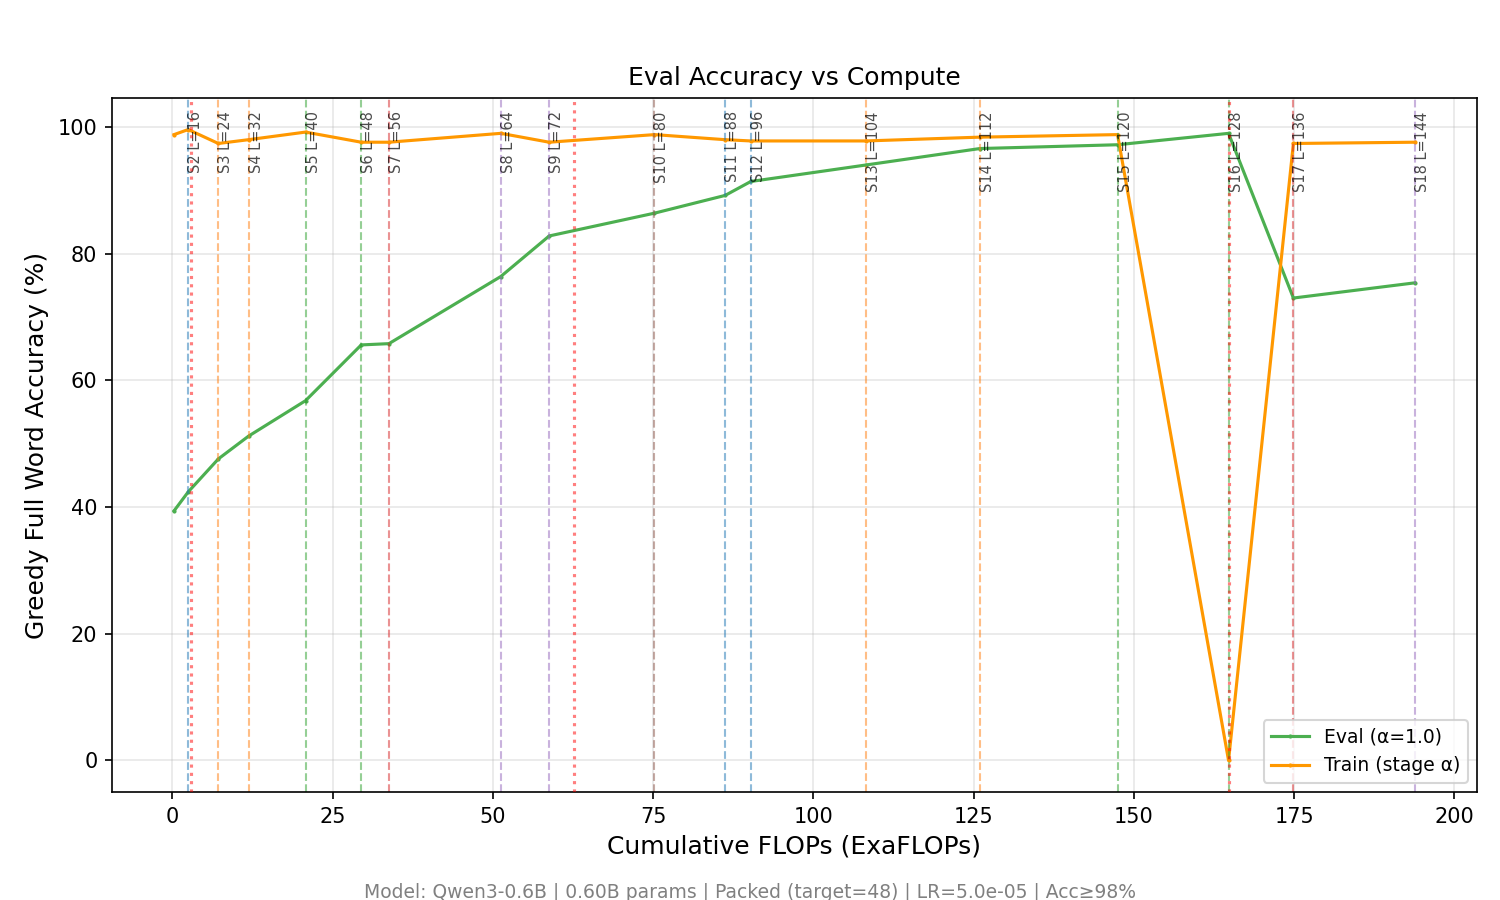
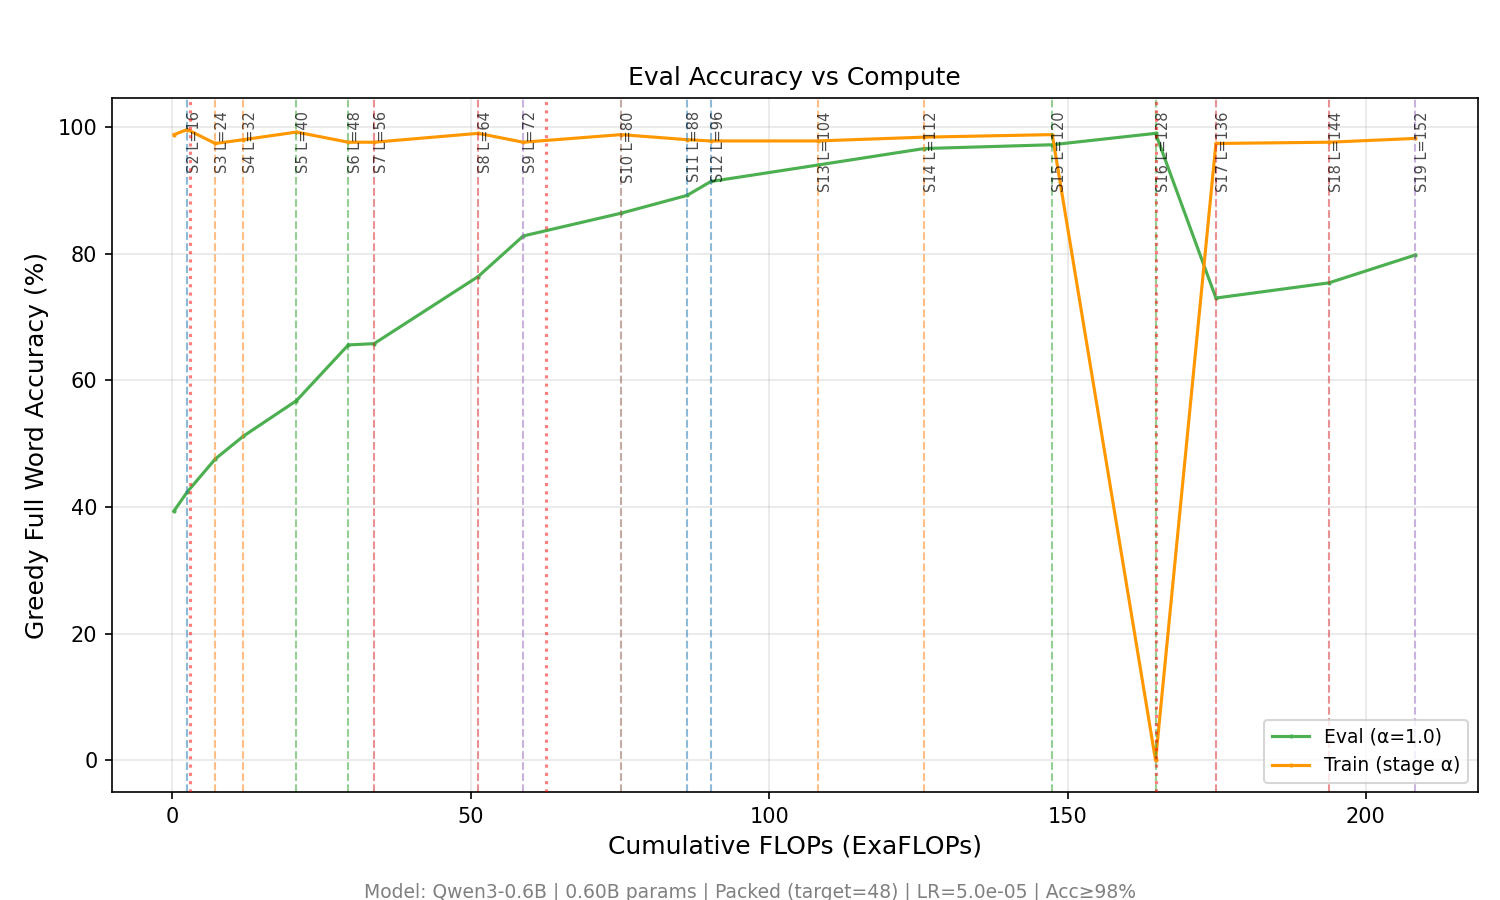
Update Exp1 PROGRESS.md and synced artifacts (2026-10-19 11:31 UTC)

diff --git a/PROGRESS.md b/PROGRESS.md
@@ -3,7 +3,7 @@
 **Base commit:** `da7b19c` (`main`)
 **Branch:** `jackierwzhang/exp1-qwen06b-lora-vs-fullft`
 **VMs:** `nl-exp1-spot-fullft` (`europe-west1-c`, deleted after completion), `nl-exp1-spot-r8` (`us-east4-a`, deleted after L=128 phase), `nl-exp1-spot-r64` (`europe-west1-c`, deleted after completion), `nl-exp1-spot-r256` (`a3-highgpu-4g`, 4x H100-80GB Spot, `us-east4-b`, running `LoRA R=8` `L=136..256`)
-**Last updated:** 2026-10-19 11:16 UTC
+**Last updated:** 2026-10-19 11:31 UTC
 
 ## Shared Configuration
 
@@ -26,11 +26,11 @@
 | Arm | Job ID | Mode | GPUs | Status | Step | Stage / $L$ | Rolling Full Acc | Rolling First Acc | Loss | PFLOPs | TFLOP/s | Wall Time | Est. Remaining |
 | :--- | :--- | :--- | :--- | :--- | ---: | :--- | ---: | ---: | ---: | ---: | ---: | ---: | :--- |
 | Full-FT | `exp1_qwen06b_fullft` | Full FT | 0,1,2,3 (Spot 4x H100: nl-exp1-spot-fullft, europe-west1-c) | Completed | 27570 | 16 (`L=128`) | 97.62% | 98.88% | 0.0163 | 116023.73 | 405.3 | 71.26h | 0.0h (Done) |
-| LoRA `R=8` | `exp1_qwen06b_lora_r8` | `--use_lora --lora_rank 8` (`alpha=16, dropout=0.1`) | 0,1,2,3 (Spot 4x H100: nl-exp1-spot-r256, us-east4-b) | Running | 48770 | 19/32 (`L=152`) | 97.25% | 98.12% | 0.0161 | 206319.09 | 234.1 | 180.30h | ~324.8h (stage-wt) / ~97.9h (318k PFLOPs ref) |
+| LoRA `R=8` | `exp1_qwen06b_lora_r8` | `--use_lora --lora_rank 8` (`alpha=16, dropout=0.1`) | 0,1,2,3 (Spot 4x H100: nl-exp1-spot-r256, us-east4-b) | Running | 48800 | 20/32 (`L=160`) | 98.12% | 98.88% | 0.0220 | 206557.53 | 233.8 | 180.58h | ~318.6h (stage-wt) / ~97.7h (318k PFLOPs ref) |
 | LoRA `R=64` | `exp1_qwen06b_lora_r64` | `--use_lora --lora_rank 64` (`alpha=128, dropout=0.1`) | 0,1,2,3 (Spot 4x H100: nl-exp1-spot-r64, europe-west1-c) | Completed | 31200 | 16 (`L=128`) | 98.00% | 98.75% | 0.0200 | 133558.81 | 219.6 | 124.37h | 0.0h (Done) |
 | LoRA `R=256` | `exp1_qwen06b_lora_r256` | `--use_lora --lora_rank 256` (`alpha=512, dropout=0.1`) | 0,1,2,3 (Spot 4x H100: nl-exp1-spot-r256, us-east4-b) | Stopped (Stage 14, L=112) | 41930 | 14 (`L=112`) | 94.50% | 95.50% | 0.0206 | 144783.59 | 159.0 | 185.86h | 0.0h (Stopped at L=112) |
 
-> **ETA Methodology & Overall Experiment 1 Completion (1 Active Arm `LoRA R=8` Extended to `L=256` on 4x Spot H100; `Full-FT` & `LoRA R=64` Completed at `L=128`; `LoRA R=256` Stopped at Stage 14 `L=112`):** `stage-wt` scales current wall time by remaining lookahead units across all 32 stages ($\sum_{k=1}^{32} k = 528$); `318k PFLOPs ref` scales the `82,000 PFLOPs` (`L=128`, 136 stage units) reference to 32 stages (`318,353 PFLOPs` to `L=256`) and divides remaining compute by the arm's measured `PFLOPs/h` rate. `LoRA R=8` (`L=256`) completion is estimated in **~324.8h (stage-wt) / ~97.9h (318k PFLOPs ref)**.
+> **ETA Methodology & Overall Experiment 1 Completion (1 Active Arm `LoRA R=8` Extended to `L=256` on 4x Spot H100; `Full-FT` & `LoRA R=64` Completed at `L=128`; `LoRA R=256` Stopped at Stage 14 `L=112`):** `stage-wt` scales current wall time by remaining lookahead units across all 32 stages ($\sum_{k=1}^{32} k = 528$); `318k PFLOPs ref` scales the `82,000 PFLOPs` (`L=128`, 136 stage units) reference to 32 stages (`318,353 PFLOPs` to `L=256`) and divides remaining compute by the arm's measured `PFLOPs/h` rate. `LoRA R=8` (`L=256`) completion is estimated in **~318.6h (stage-wt) / ~97.7h (318k PFLOPs ref)**.
 
 ## Stage Evaluation Summary (`stage_eval_history.json`)
 
@@ -70,6 +70,7 @@
 | LoRA `R=8` | 16 | 43125 | 128 | 1.000 | 0.0232 | 99.20% | 99.00% | - | - |
 | LoRA `R=8` | 17 | 44525 | 136 | 0.535 | 0.1324 | 74.20% | 73.00% | 97.80% | 97.40% |
 | LoRA `R=8` | 18 | 47000 | 144 | 0.567 | 0.1357 | 76.40% | 75.40% | 97.60% | 97.60% |
+| LoRA `R=8` | 19 | 48800 | 152 | 0.598 | 0.1225 | 80.80% | 79.80% | 98.20% | 98.20% |
 | LoRA `R=64` | 1 | 450 | 8 | 0.067 | 0.5967 | 39.40% | 39.40% | 98.80% | 98.80% |
 | LoRA `R=64` | 2 | 1300 | 16 | 0.130 | 0.3640 | 45.80% | 45.20% | 98.80% | 98.80% |
 | LoRA `R=64` | 3 | 2675 | 24 | 0.193 | 0.3256 | 51.20% | 51.00% | 99.20% | 99.20% |
